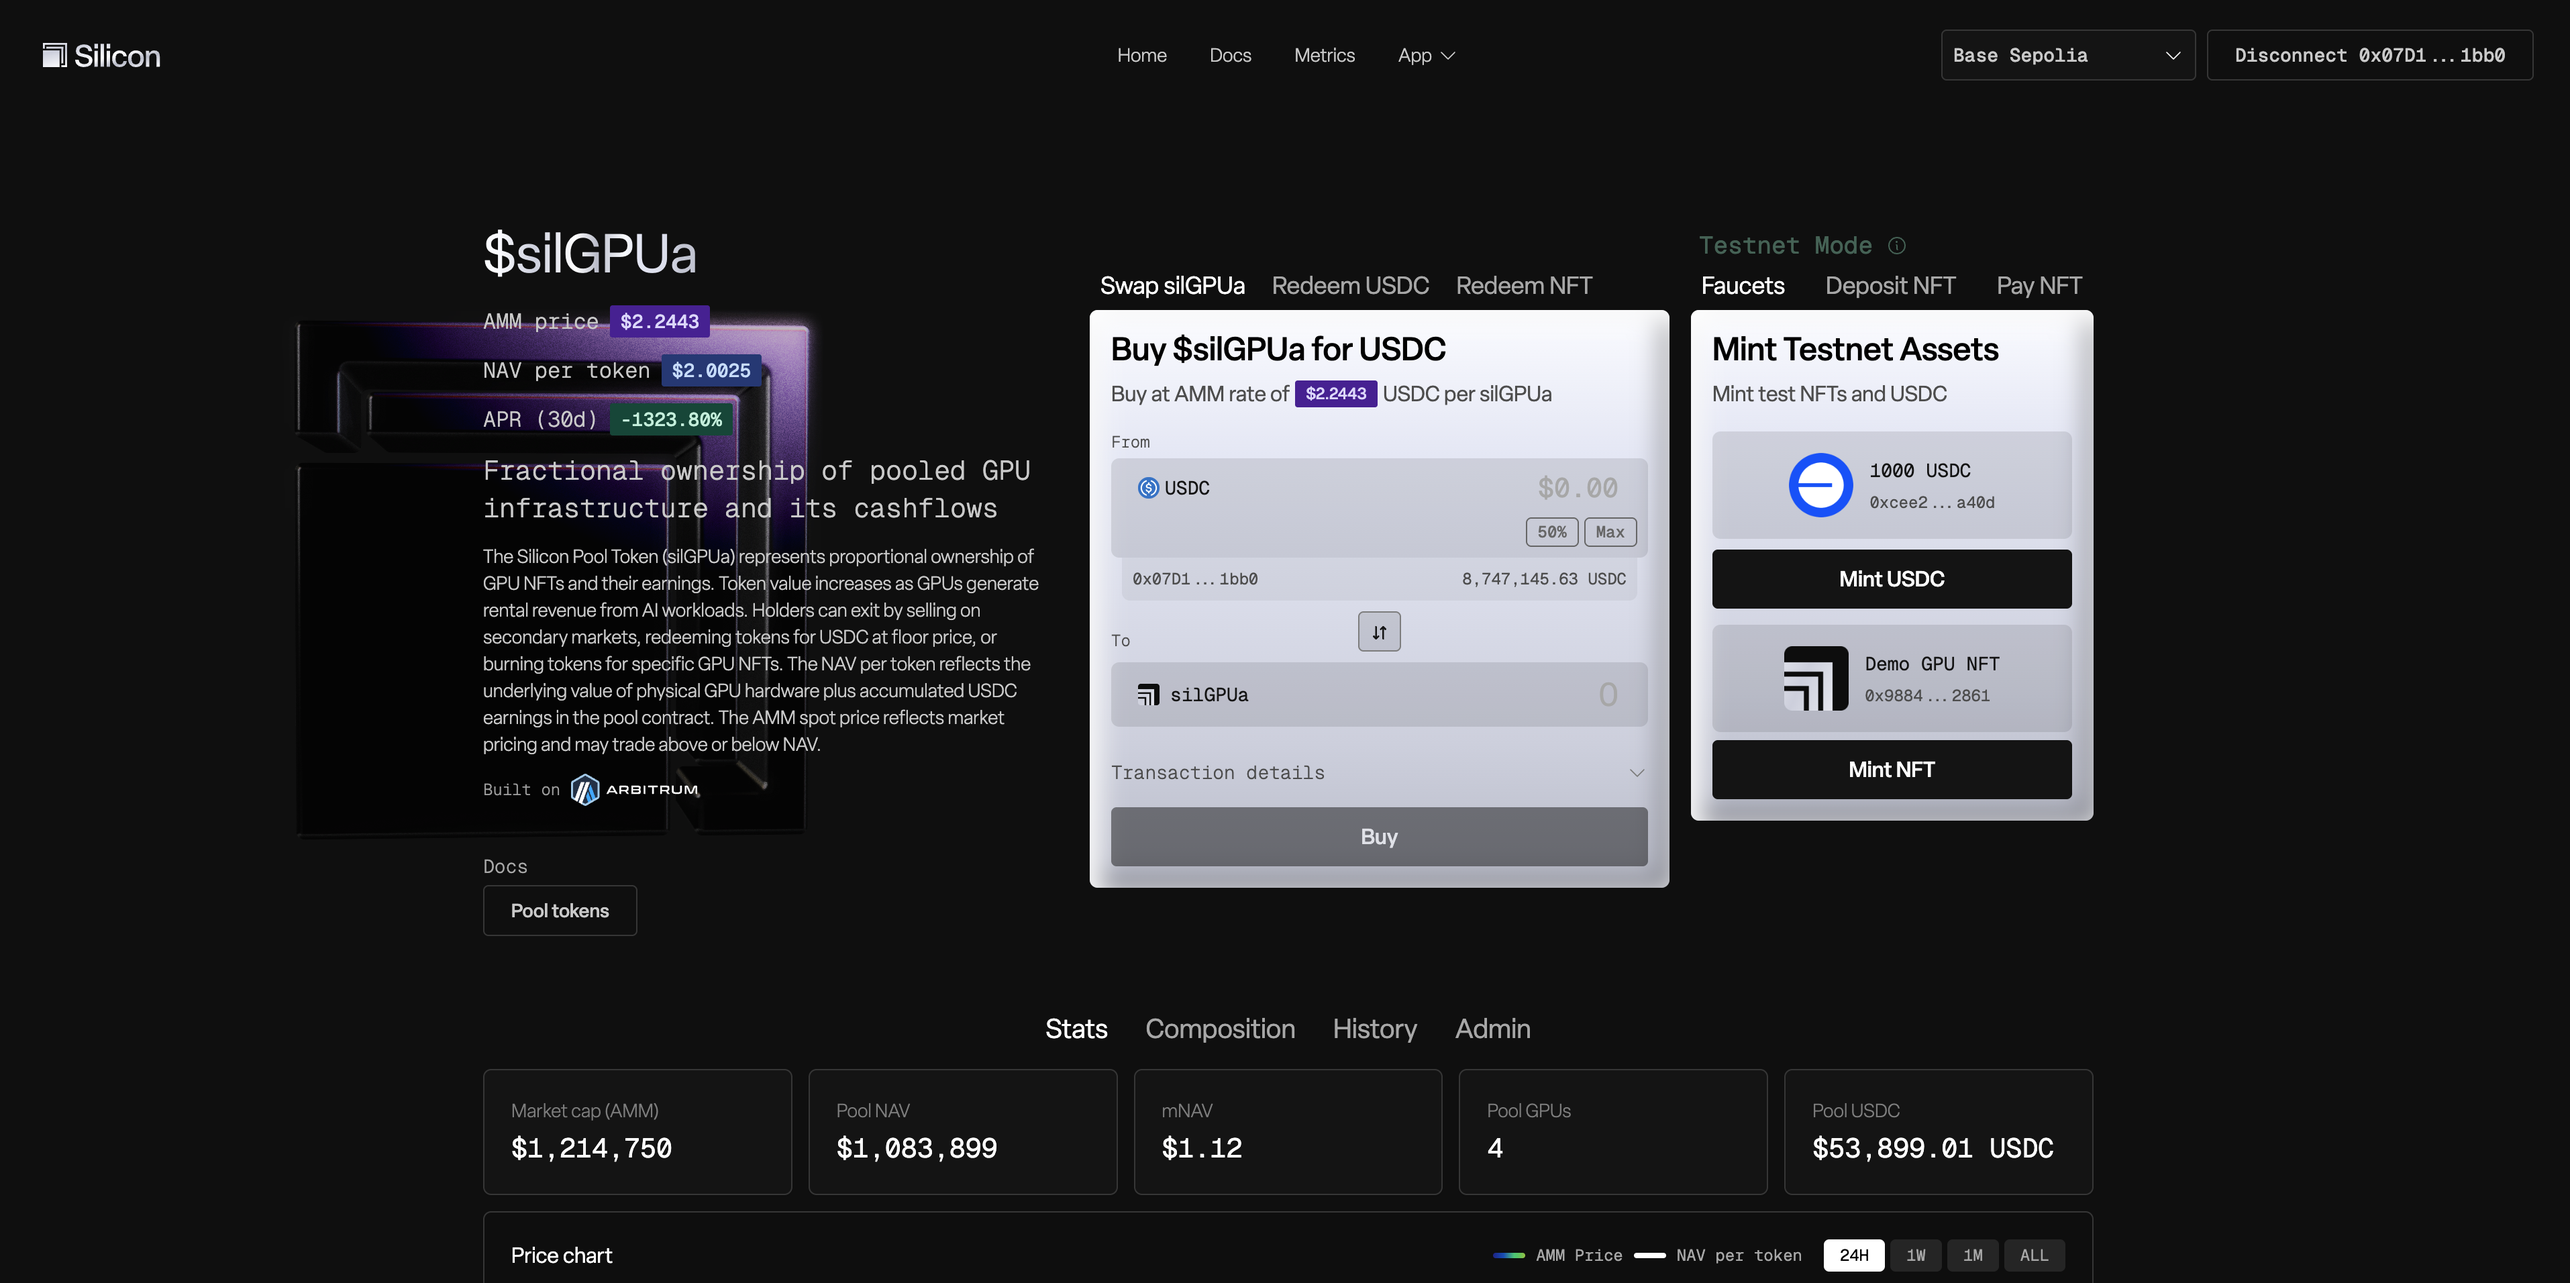
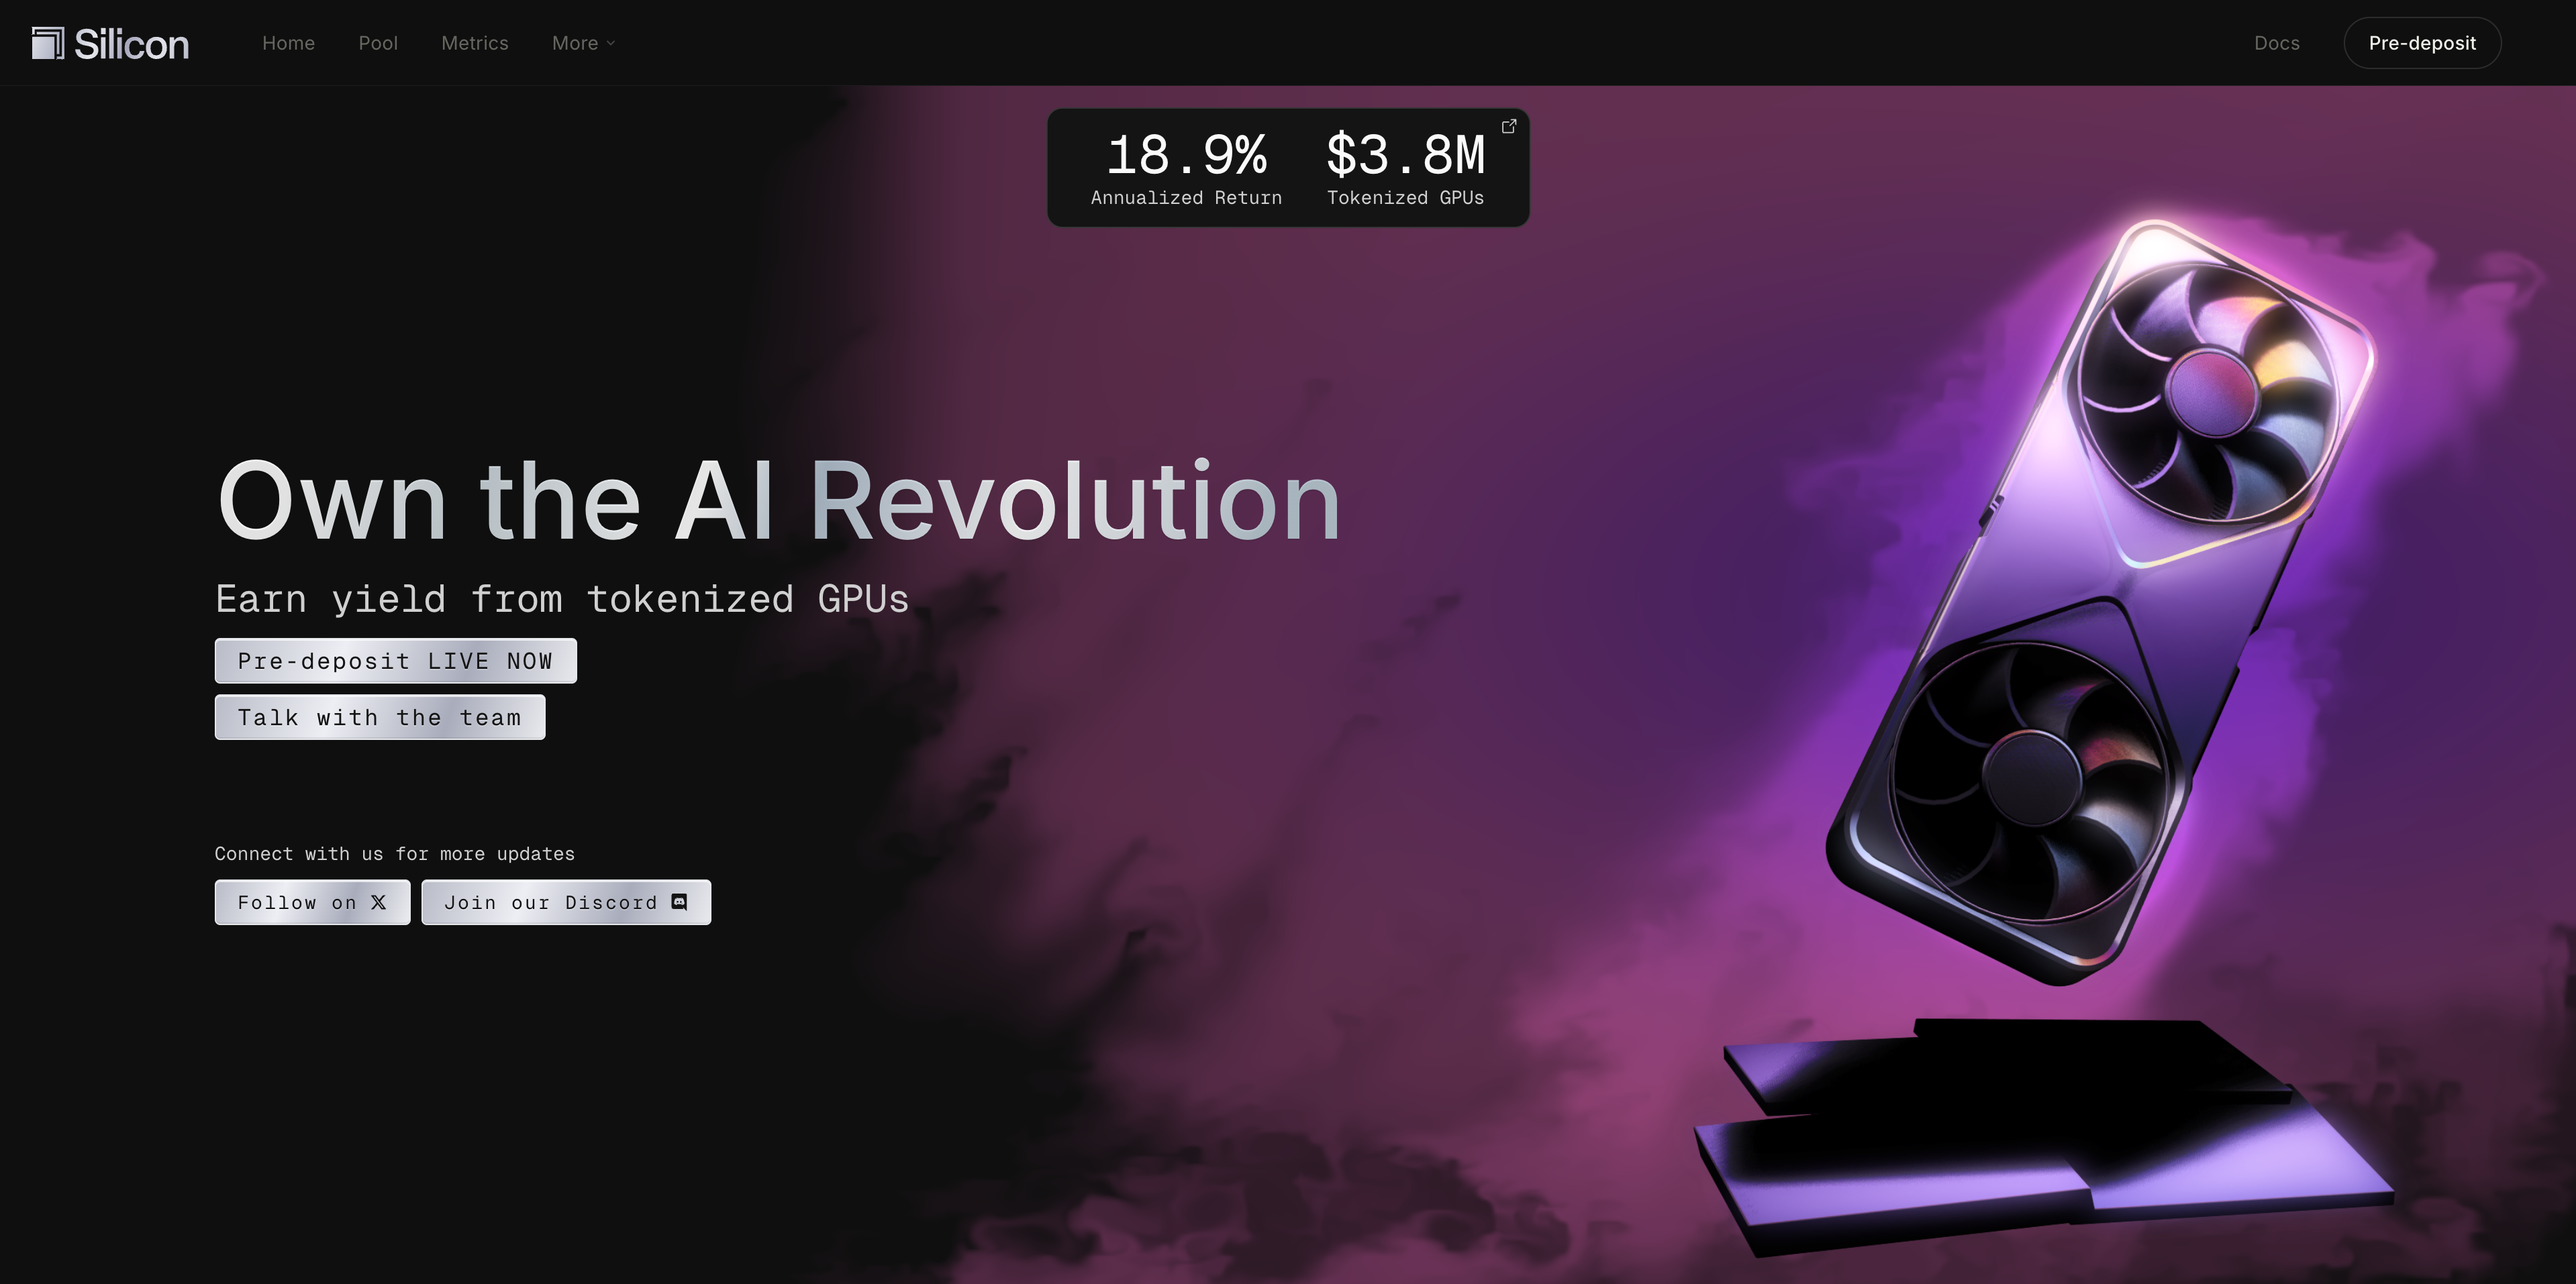
feat: new images, chess item, copy

diff --git a/src/data/works.ts b/src/data/works.ts
@@ -19,10 +19,10 @@ export interface Work {
 export const works: Work[] = [
   {
     id: 'silicon-pool',
-    type: ['Web App'],
+    type: ['Web App, dApp, Website'],
     site: 'silicon.net',
     title: 'Silicon',
-    subtitle: 'cryptocurrency for datacenters',
+    subtitle: 'tokenized compute for the AI economy',
     image: 'silicon.png',
     role: ['Frontend', 'Design', 'Backend'],
     tech: ['TypeScript', 'React', 'Tailwind CSS', 'Solidity', 'PostgreSQL', 'Supabase', 'AWS Lambda', 'Netlify', 'Ethereum'],
@@ -31,30 +31,65 @@ export const works: Work[] = [
     colors: {
       title: 'bg-purple-600 text-white',
       type: {
-        label: 'text-green-600',
-        bg: 'bg-green-600 text-white',
+        label: 'text-purple-600',
+        bg: 'bg-purple-600 text-white',
       },
       role: {
-        label: 'text-green-600',
-        bg: 'bg-green-600 text-white',
+        label: 'text-purple-600',
+        bg: 'bg-purple-600 text-white',
       },
       tech: {
-        label: 'text-green-600',
-        bg: 'bg-green-600 text-white',
+        label: 'text-purple-600',
+        bg: 'bg-purple-600 text-white',
       },
       buzzwords: {
-        label: 'text-green-600',
-        bg: 'bg-green-600 text-white',
+        label: 'text-purple-600',
+        bg: 'bg-purple-600 text-white',
       },
       site: 'bg-white hover:bg-purple-600 text-black hover:text-white border-purple-600',
       description: 'border-purple-600',
     },
-    colorContext: ['#f0dcfa', '#fafafa', '#e4e4e4', '#d7e6d5']
+    colorContext: ['#f0dcfa', '#fafafa', '#fae3f5', '#d4d2d3']
+  },
+  {
+    id: 'chessassist',
+    type: ['Chrome Extension'],
+    source: 'https://github.com/mjv11/chessassist',
+    title: 'Chess Assist',
+    subtitle: 'A chess evaluation and book deployment tool to help intermediate chess players develop intuition for good moves.',
+    image: 'chessassist.jpg',
+    role: ['Frontend', 'Design', 'Backend'],
+    tech: ['TypeScript', 'React', 'Tailwind CSS', 'Python', 'FastAPI', 'Pandas'],
+    buzzwords: ['Chess'],
+    videos: [],
+    colors: {
+      title: 'bg-emerald-600 text-white',
+      type: {
+        label: 'text-emerald-600',
+        bg: 'bg-emerald-600 text-white',
+      },
+      role: {
+        label: 'text-emerald-600',
+        bg: 'bg-emerald-600 text-white',
+      },
+      tech: {
+        label: 'text-emerald-600',
+        bg: 'bg-emerald-600 text-white',
+      },
+      buzzwords: {
+        label: 'text-emerald-600',
+        bg: 'bg-emerald-600 text-white',
+      },
+      site: 'bg-white hover:bg-emerald-600 text-black hover:text-white border-emerald-600',
+      description: 'border-emerald-600',
+    },
+    colorContext: ['#c4dbbd', '#ebeced', '#ffffff', '#e3ecff']
   },
   {
     id: 'compare509',
     type: ['Web App, Data Visualization'],
     site: 'compare509.netlify.app',
+    source: 'https://github.com/mjv11/compare509',
     title: 'Compare509',
     subtitle: 'data visualization for law school disclosures',
     image: 'compare509.png',
